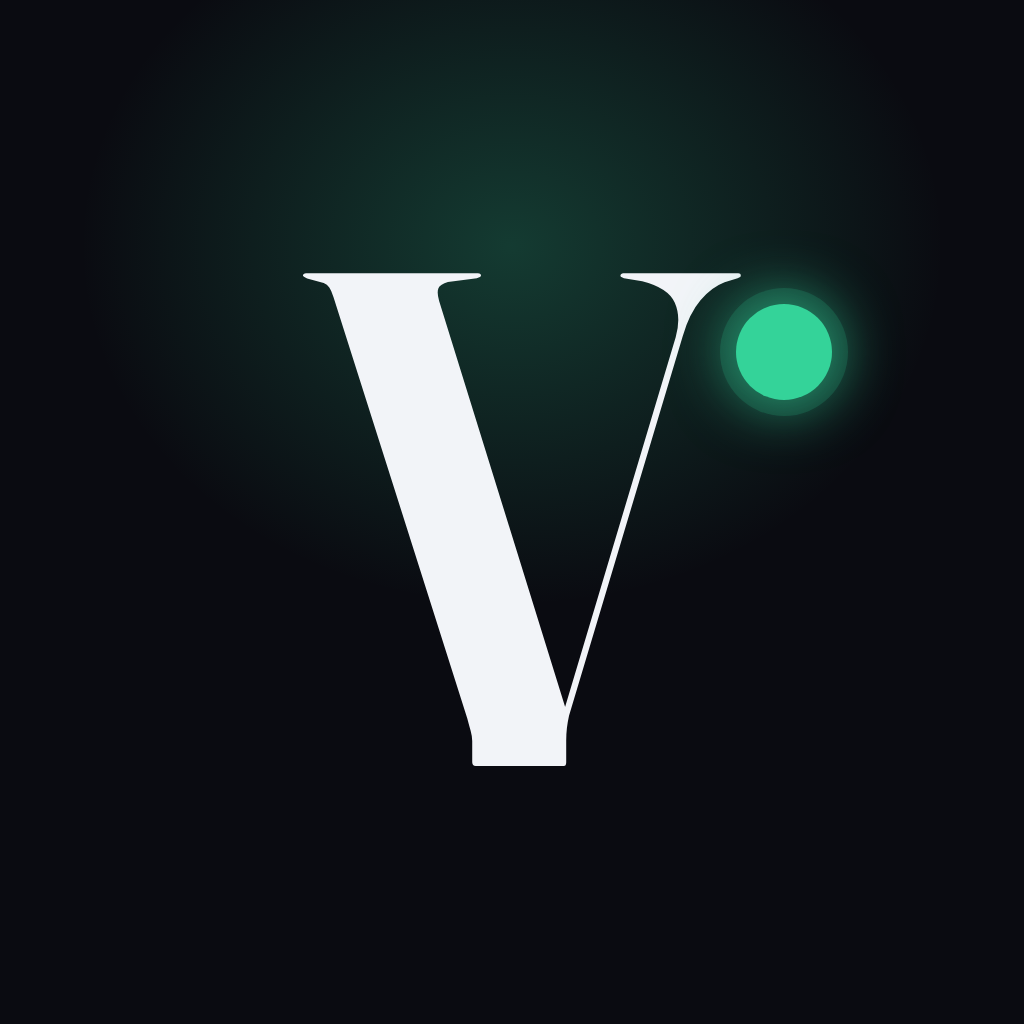
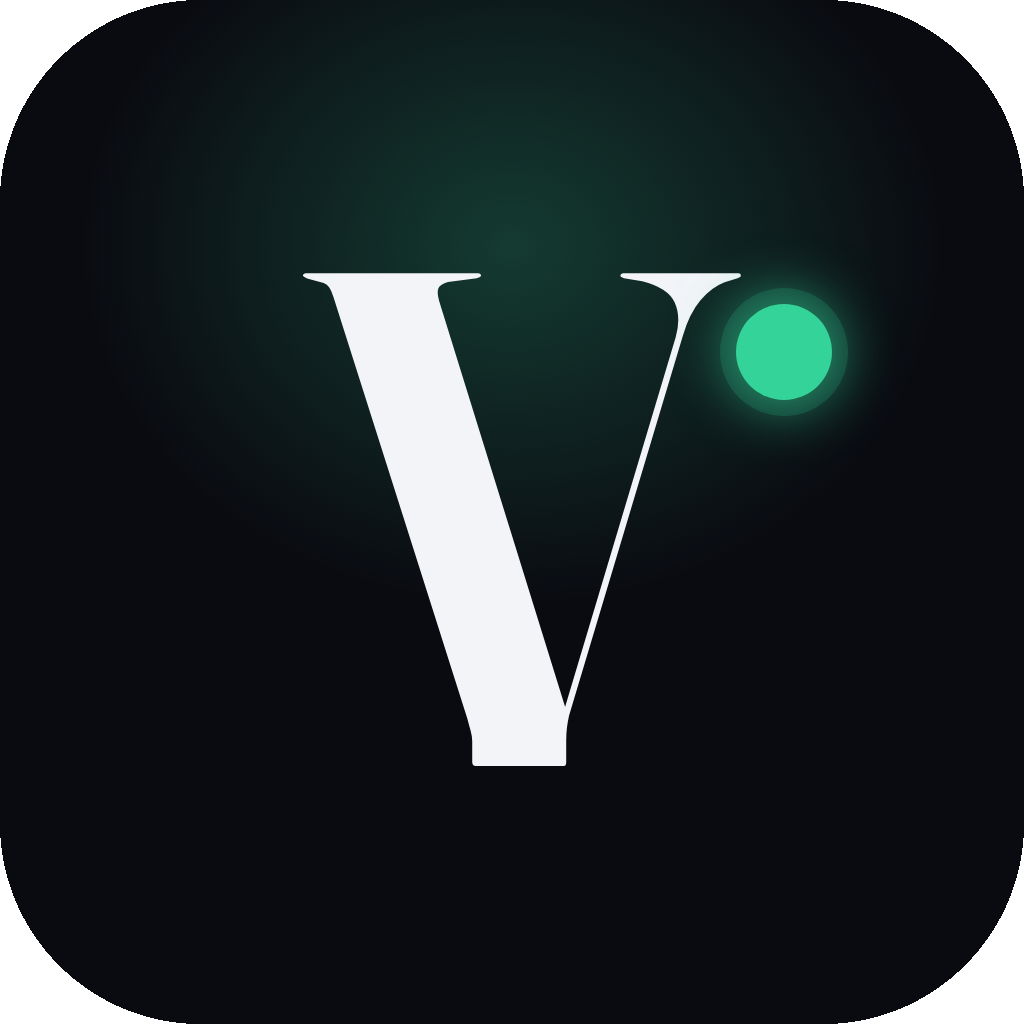
fix(mac): 번들 ad-hoc 서명(afterPack) + 앱 아이콘 둥근 모서리 (#157) (#180)
#157(실기 재현): identity:null 은 electron-builder 에서 '서명 건너뜀'이라 링커 adhoc
서명(실행 바이너리 한정)만 남고, 번들 리소스가 봉인되지 않아 Apple Silicon 이 여전히
'손상됨'으로 막았다(실기 확인). afterPack 훅에서 pack 직후(서명·dmg 생성 전) 번들 전체를
codesign --force --deep --sign - 로 ad-hoc 서명해 리소스를 봉인 → '손상됨' 해소.
README 의 수동 워크어라운드를 빌드 시점에 대신 수행(사용자 실행 불필요).

아이콘: 새 V 마크가 각진 풀블리드라 macOS 에서 모서리가 뾰족했음. macOS 는 아이콘을
자동으로 둥글게 깎지 않으므로, 이전(노드그래프) 아이콘과 동일하게 반경 ~200/1024(19.7%)
둥근 사각형으로 다시 마스킹(electron/icon.png 1024·docs/assets/logo.png 512).

diff --git a/electron/afterPack.js b/electron/afterPack.js
@@ -1,0 +1,35 @@
+// electron-builder afterPack 훅: mac 앱 번들을 ad-hoc 서명한다(#157).
+//
+// 배경: electron-builder 는 `mac.identity: null` 을 '서명 건너뜀'으로 처리한다. 그러면 링커가
+// 남긴 adhoc 서명(실행 바이너리 한정)만 남는데, Apple Silicon 은 그것만으로는 번들 리소스가
+// 봉인(CodeResources)되지 않아 Gatekeeper 가 '손상됨'으로 막는다(실기 확인됨).
+//
+// 여기서 pack 직후(서명·dmg 생성 전) 번들 전체를 `codesign --force --deep --sign -` 로 ad-hoc
+// 서명해 리소스를 봉인하면 '손상됨'이 사라진다. README 의 수동 워크어라운드를 빌드 시점에 대신
+// 수행하는 것이라, 사용자는 설치 후 아무 명령도 실행할 필요가 없다.
+//
+// (identity:null 이라 electron-builder 자체 서명 단계는 no-op → 이 afterPack 서명이 최종본으로
+//  dmg 에 들어간다. 여전히 Apple 인증서 서명은 아니므로 최초 실행 우클릭→열기 1회는 남는다.)
+
+const { execFileSync } = require("node:child_process");
+const path = require("node:path");
+
+exports.default = async function afterPack(context) {
+  if (context.electronPlatformName !== "darwin") return;
+  const appName = context.packager.appInfo.productFilename; // "Vestige"
+  const appPath = path.join(context.appOutDir, `${appName}.app`);
+  console.log(`[afterPack] mac 번들 ad-hoc 서명: ${appPath}`);
+  // --deep: 내부 프레임워크/헬퍼까지, --sign -: ad-hoc, --timestamp=none: 타임스탬프 서버 미접속.
+  execFileSync(
+    "codesign",
+    ["--force", "--deep", "--sign", "-", "--timestamp=none", appPath],
+    { stdio: "inherit" },
+  );
+  // 봉인 검증(실패 시 빌드 중단) — 리소스가 실제로 봉인됐는지 strict 확인.
+  execFileSync(
+    "codesign",
+    ["--verify", "--deep", "--strict", "--verbose=2", appPath],
+    { stdio: "inherit" },
+  );
+  console.log("[afterPack] ad-hoc 서명 + strict 검증 완료");
+};
